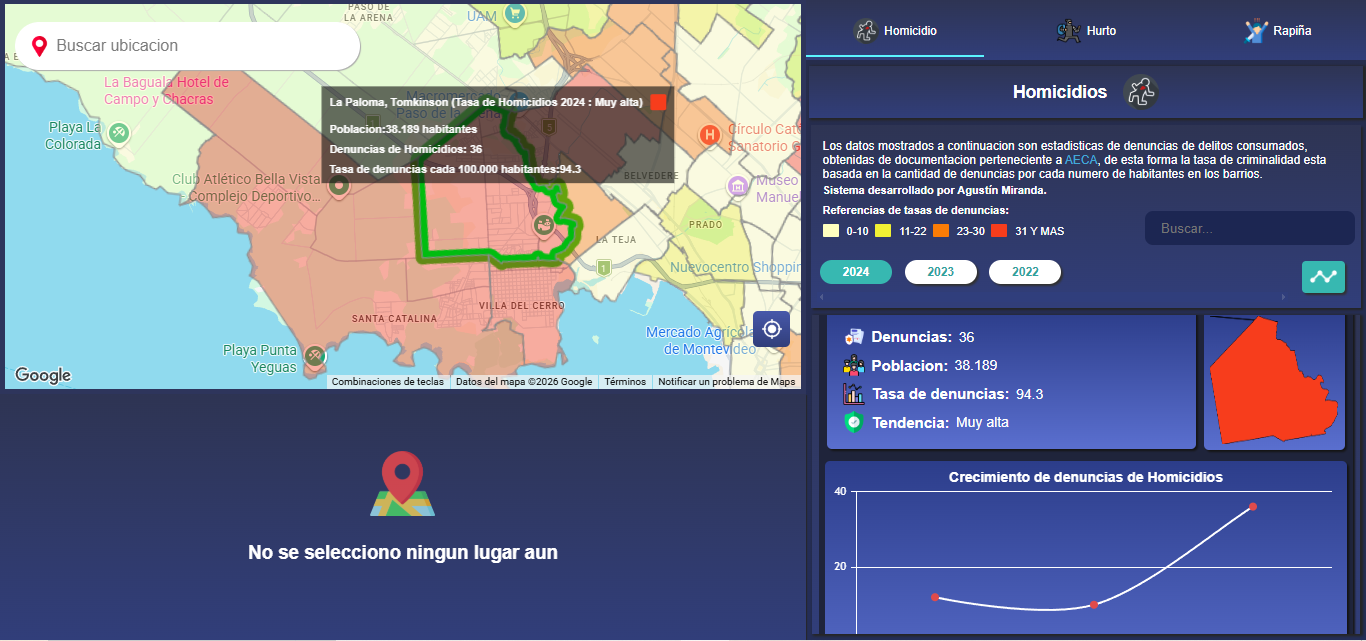
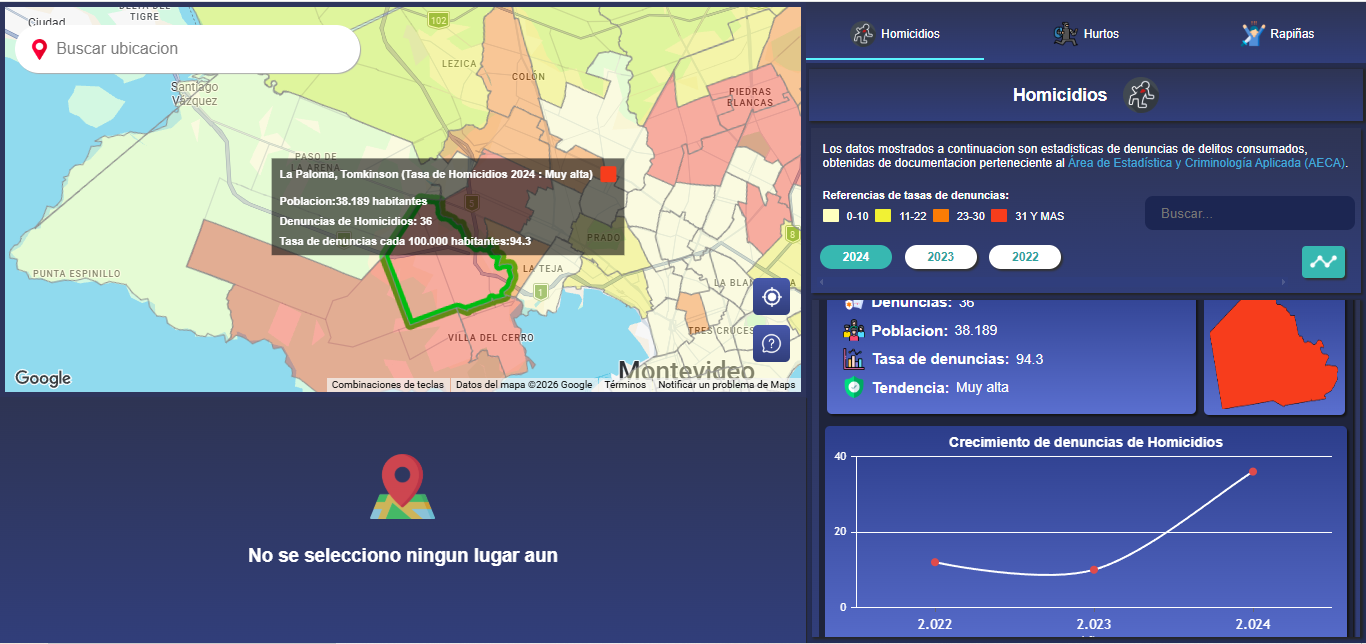
Readme.md updated

diff --git a/frontend/src/components/about/About.jsx b/frontend/src/components/about/About.jsx
@@ -95,7 +95,7 @@ export const About = () => {
         <Questions />
 
         <p className={styles.author}>
-          © IndiceDelitosMontevideo 2025 | Desarrollado por{" "}
+          © IndiceDelitosMontevideo 2026 | Desarrollado por{" "}
           <a href="https://www.linkedin.com/in/agustin-miranda-953634239">
             Agustin Miranda
           </a>

diff --git a/frontend/index.html b/frontend/index.html
@@ -3,6 +3,7 @@
 
 <head>
   <meta charset="UTF-8" />
+  <meta name="google-site-verification" content="qzH6Pl0DRWAMCIxMdKsq0c02LMzgchyugVfNAAuxenE">
   <meta name="robots" content="index">
   <meta name="viewport" content="width=device-width, initial-scale=1.0" />
   <meta name="author" content="Agustin Miranda" />

diff --git a/frontend/src/components/map/optionsMap/viewStatistics/menu/item/Item.jsx b/frontend/src/components/map/optionsMap/viewStatistics/menu/item/Item.jsx
@@ -51,7 +51,7 @@ export const Item = ({ crime, setShowViewStatistics, showViewStatistics }) => {
                 : ""
         }
       ></div>
-      {crime.category}
+      {crime.category}s
     </li>
   );
 };
